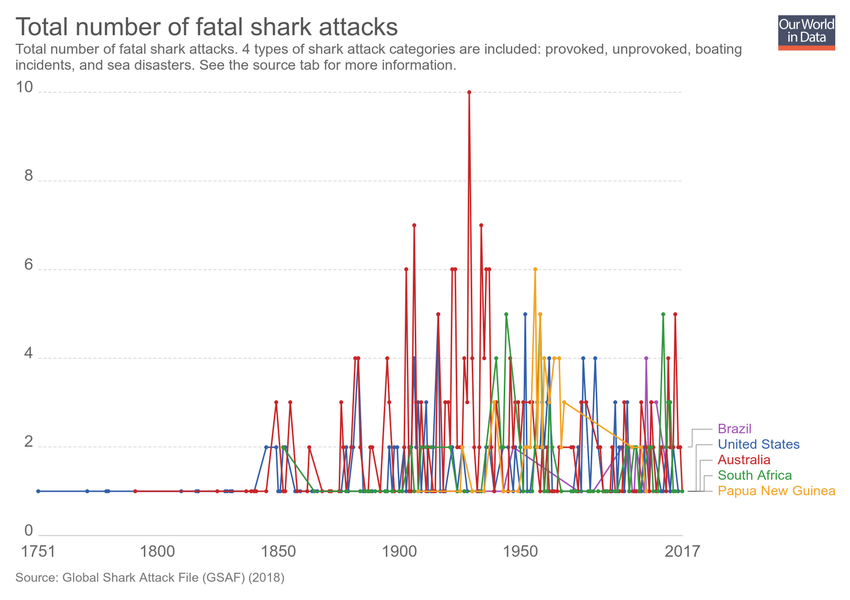
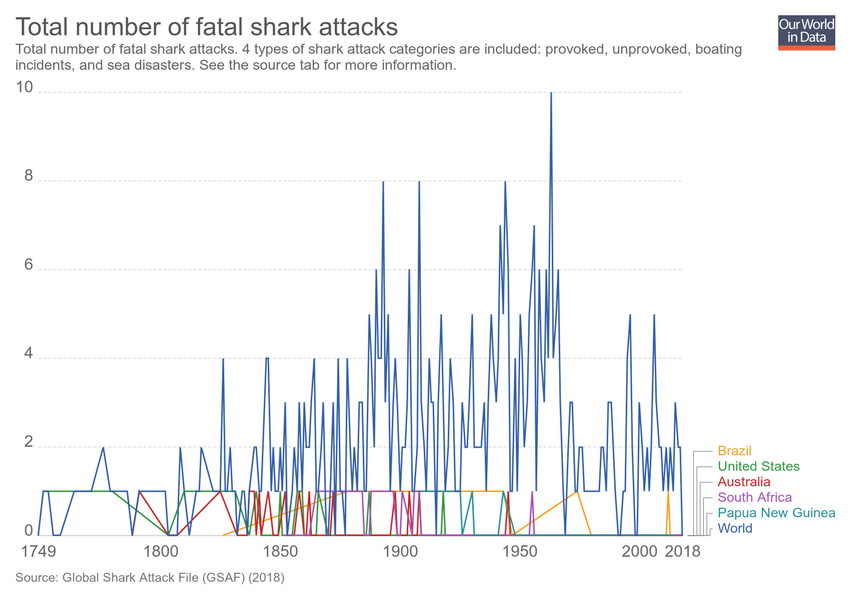
Updating chart total-number-of-fatal-shark-attacks

Changed region(s): [[0.0306, 0.15, 0.9788, 0.93], [0.0918, 0.75, 0.1224, 0.78], [0.0306, 0.9, 0.0612, 0.93]]

diff --git a/grapher/total-number-of-fatal-shark-attacks.html b/grapher/total-number-of-fatal-shark-attacks.html
@@ -1,4 +1,4 @@
-<!doctype html><html><head><meta name="viewport" content="width=device-width, initial-scale=1" /><title>Total number of fatal shark attacks - Our World in Data</title><meta name="description" content="Total number of fatal shark attacks. 4 types of shark attack categories are included: provoked, unprovoked, boating incidents, and sea disasters. See the source tab for more information." /><link rel="canonical" href="https://ourworldindata.org/grapher/total-number-of-fatal-shark-attacks" /><meta property="fb:app_id" content="1149943818390250" /><meta property="og:url" content="https://ourworldindata.org/grapher/total-number-of-fatal-shark-attacks" /><meta property="og:title" content="Total number of fatal shark attacks" /><meta property="og:description" content="Total number of fatal shark attacks. 4 types of shark attack categories are included: provoked, unprovoked, boating incidents, and sea disasters. See the source tab for more information." /><meta property="og:image" content="https://ourworldindata.org/grapher/exports/total-number-of-fatal-shark-attacks.png?v=6" /><meta property="og:image:width" content="850" /><meta property="og:image:height" content="600" /><meta property="og:site_name" content="Our World in Data" /><meta name="twitter:card" content="summary_large_image" /><meta name="twitter:site" content="@OurWorldInData" /><meta name="twitter:creator" content="@OurWorldInData" /><meta name="twitter:title" content="Total number of fatal shark attacks" /><meta name="twitter:description" content="Total number of fatal shark attacks. 4 types of shark attack categories are included: provoked, unprovoked, boating incidents, and sea disasters. See the source tab for more information." /><meta name="twitter:image" content="https://ourworldindata.org/grapher/exports/total-number-of-fatal-shark-attacks.png?v=6" /><style>
+<!doctype html><html><head><meta name="viewport" content="width=device-width, initial-scale=1" /><title>Total number of fatal shark attacks - Our World in Data</title><meta name="description" content="Total number of fatal shark attacks. 4 types of shark attack categories are included: provoked, unprovoked, boating incidents, and sea disasters. See the source tab for more information." /><link rel="canonical" href="https://ourworldindata.org/grapher/total-number-of-fatal-shark-attacks" /><meta property="fb:app_id" content="1149943818390250" /><meta property="og:url" content="https://ourworldindata.org/grapher/total-number-of-fatal-shark-attacks" /><meta property="og:title" content="Total number of fatal shark attacks" /><meta property="og:description" content="Total number of fatal shark attacks. 4 types of shark attack categories are included: provoked, unprovoked, boating incidents, and sea disasters. See the source tab for more information." /><meta property="og:image" content="https://ourworldindata.org/grapher/exports/total-number-of-fatal-shark-attacks.png?v=8" /><meta property="og:image:width" content="850" /><meta property="og:image:height" content="600" /><meta property="og:site_name" content="Our World in Data" /><meta name="twitter:card" content="summary_large_image" /><meta name="twitter:site" content="@OurWorldInData" /><meta name="twitter:creator" content="@OurWorldInData" /><meta name="twitter:title" content="Total number of fatal shark attacks" /><meta name="twitter:description" content="Total number of fatal shark attacks. 4 types of shark attack categories are included: provoked, unprovoked, boating incidents, and sea disasters. See the source tab for more information." /><meta name="twitter:image" content="https://ourworldindata.org/grapher/exports/total-number-of-fatal-shark-attacks.png?v=8" /><style>
         html, body {
             height: 100%;
             margin: 0;
@@ -20,8 +20,8 @@
         }
     </style><noscript><style>
                     figure { display: none !important; }
-                </style></noscript><link rel="stylesheet" href="https://ourworldindata.org/grapher/assets/commons.bundle.0cade97703a5a10acaac.css" /><link rel="preload" href="/grapher/data/variables/97760.json?v=6" as="fetch" crossorigin /></head><body class="singleChart"><figure data-grapher-src="/grapher/total-number-of-fatal-shark-attacks"></figure><noscript id="fallback"><img src="/grapher/exports/total-number-of-fatal-shark-attacks.svg" /><p>Interactive visualization requires JavaScript</p></noscript><script src="https://cdn.polyfill.io/v2/polyfill.min.js?features=es6,fetch"></script><script src="https://ourworldindata.org/grapher/assets/commons.bundle.0cade97703a5a10acaac.js"></script><script src="https://ourworldindata.org/grapher/assets/charts.bundle.0cade97703a5a10acaac.js"></script><script>
-        var jsonConfig = {"id":2942,"map":{"projection":"World","colorSchemeLabels":[],"colorSchemeValues":[],"customNumericColors":[],"customCategoryColors":{},"customCategoryLabels":{},"customHiddenCategories":{}},"tab":"chart","slug":"total-number-of-fatal-shark-attacks","type":"LineChart","title":"Total number of fatal shark attacks","xAxis":{"scaleType":"linear"},"yAxis":{"min":0,"scaleType":"linear"},"minTime":1750,"version":6,"subtitle":"Total number of fatal shark attacks. 4 types of shark attack categories are included: provoked, unprovoked, boating incidents, and sea disasters. See the source tab for more information.","hasMapTab":false,"stackMode":"absolute","dimensions":[{"display":{},"property":"y","variableId":97760}],"entityType":"entity","hasChartTab":true,"isPublished":true,"selectedData":[{"index":0,"entityId":37},{"index":0,"entityId":13},{"index":0,"entityId":23},{"index":0,"entityId":81},{"index":0,"entityId":99}],"addCountryMode":"add-country"};
+                </style></noscript><link rel="stylesheet" href="https://ourworldindata.org/grapher/assets/commons.bundle.0cade97703a5a10acaac.css" /><link rel="preload" href="/grapher/data/variables/97760.json?v=8" as="fetch" crossorigin /></head><body class="singleChart"><figure data-grapher-src="/grapher/total-number-of-fatal-shark-attacks"></figure><noscript id="fallback"><img src="/grapher/exports/total-number-of-fatal-shark-attacks.svg" /><p>Interactive visualization requires JavaScript</p></noscript><script src="https://cdn.polyfill.io/v2/polyfill.min.js?features=es6,fetch"></script><script src="https://ourworldindata.org/grapher/assets/commons.bundle.0cade97703a5a10acaac.js"></script><script src="https://ourworldindata.org/grapher/assets/charts.bundle.0cade97703a5a10acaac.js"></script><script>
+        var jsonConfig = {"id":2942,"map":{"projection":"World","colorSchemeLabels":[],"colorSchemeValues":[],"customNumericColors":[],"customCategoryColors":{},"customCategoryLabels":{},"customHiddenCategories":{}},"tab":"chart","slug":"total-number-of-fatal-shark-attacks","type":"LineChart","title":"Total number of fatal shark attacks","xAxis":{"scaleType":"linear"},"yAxis":{"min":0,"scaleType":"linear"},"minTime":1750,"version":8,"subtitle":"Total number of fatal shark attacks. 4 types of shark attack categories are included: provoked, unprovoked, boating incidents, and sea disasters. See the source tab for more information.","hasMapTab":false,"stackMode":"absolute","dimensions":[{"display":{},"property":"y","variableId":97760}],"entityType":"entity","hasChartTab":true,"isPublished":true,"selectedData":[{"index":0,"entityId":37},{"index":0,"entityId":13},{"index":0,"entityId":23},{"index":0,"entityId":81},{"index":0,"entityId":99},{"index":0,"entityId":355}],"addCountryMode":"add-country"};
         var figure = document.getElementsByTagName("figure")[0];
         try {
             window.App = {};
